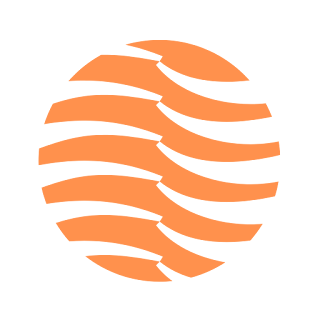
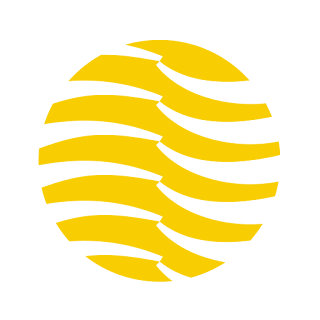
Make the brand mark take its colour from the surface
The mark was orange, which was the one thing on the logged-out site still
fighting the racing yellow. Recoloured — losslessly: the asset is a single
opaque RGB (255,145,77) with alpha doing all the anti-aliasing, so
rewriting RGB and leaving alpha alone preserves all 27,908 opaque pixels
and every soft edge.

Recolouring the file alone would have broken the product, though. The
same lockup renders on two palettes: charcoal on the logged-out site,
where yellow is 11.2:1, and white in onboarding and checkout, where the
same yellow is 1.5:1 and effectively vanishes.

So the mark is now painted through a CSS mask instead of shipped as a
flat <img>. It is a single-colour silhouette, so masking is lossless, and
it buys the thing an <img> cannot: `bg-current` means the mark inherits.
Every surface is right by default, and the alternative — two PNGs plus
remembering which to import at each of six call sites — is the version
that goes wrong in six months.

The marketing header and footer state yellow explicitly, since inheriting
there would give them white.

New `BrandMark` is the one place the asset path lives. It also fixes the
accessible name: the mark is aria-hidden beside a visible wordmark and
labelled only when it stands alone, so a screen reader stops saying
"Fortitudo Fortitudo".

Changed region(s): [[0.0938, 0.125, 0.875, 0.9062]]

diff --git a/src/components/brand-mark.tsx b/src/components/brand-mark.tsx
@@ -1,0 +1,55 @@
+import { cn } from '@/lib/utils';
+
+/**
+ * The Fortitudo mark, rendered as a CSS mask rather than an image.
+ *
+ * The asset is a single-colour silhouette — one opaque RGB with alpha doing
+ * all the anti-aliasing — so painting it through a mask is lossless and buys
+ * one thing a flat `<img>` cannot: the mark takes the colour of whatever it
+ * sits on.
+ *
+ * That matters because the same lockup appears on two palettes. On the
+ * logged-out site it needs to be racing yellow on charcoal (11.2:1). In the
+ * product it sits on white, where that same yellow is 1.5:1 and effectively
+ * disappears. Shipping two PNGs and remembering which to import at each of the
+ * six call sites is the version of this that goes wrong in six months.
+ *
+ * `currentColor` means the mark simply inherits, and every surface is right by
+ * default. Pass a text colour to override.
+ */
+export const BRAND_MARK_SRC = '/brand/fortitudo-mark.png';
+
+export function BrandMark({
+  className,
+  label,
+  style,
+}: {
+  className?: string;
+  /** For call sites that size in px rather than Tailwind height classes. */
+  style?: React.CSSProperties;
+  /**
+   * Only pass this when the mark stands alone. Beside a visible "Fortitudo"
+   * wordmark it must stay unlabelled, or a screen reader says the brand twice.
+   */
+  label?: string;
+}) {
+  return (
+    <span
+      role={label ? 'img' : undefined}
+      aria-label={label}
+      aria-hidden={label ? undefined : true}
+      className={cn('inline-block aspect-square shrink-0 bg-current', className)}
+      style={{
+        ...style,
+        WebkitMaskImage: `url(${BRAND_MARK_SRC})`,
+        maskImage: `url(${BRAND_MARK_SRC})`,
+        WebkitMaskSize: 'contain',
+        maskSize: 'contain',
+        WebkitMaskRepeat: 'no-repeat',
+        maskRepeat: 'no-repeat',
+        WebkitMaskPosition: 'center',
+        maskPosition: 'center',
+      }}
+    />
+  );
+}

diff --git a/src/components/marketing/giga/header.tsx b/src/components/marketing/giga/header.tsx
@@ -16,6 +16,7 @@
 
 import { useState, useRef, useEffect, useCallback } from 'react';
 import Link from 'next/link';
+import { BrandMark } from '@/components/brand-mark';
 import {
   motion,
   AnimatePresence,
@@ -196,14 +197,7 @@ export function SiteHeader() {
                 {/* Empty alt: the link carries its own aria-label and the
                     wordmark beside it is visible text, so naming the mark
                     would announce "Fortitudo" a third time. */}
-                {/* eslint-disable-next-line @next/next/no-img-element */}
-                <img
-                  src="/brand/fortitudo-mark.png"
-                  alt=""
-                  width={320}
-                  height={320}
-                  className="h-5 w-auto"
-                />
+                <BrandMark className="h-5 text-[var(--fx-yellow)]" />
                 <span className="ml-2 text-sm font-medium tracking-tight text-white">Fortitudo</span>
               </Link>
               <nav className="hidden items-center gap-0.5 lg:flex">
@@ -351,14 +345,7 @@ export function SiteHeader() {
                 <Link href="/" className="flex items-center" onClick={closeAll}>
                   {/* Empty alt: the visible wordmark beside it already names
                       the link. */}
-                  {/* eslint-disable-next-line @next/next/no-img-element */}
-                  <img
-                    src="/brand/fortitudo-mark.png"
-                    alt=""
-                    width={320}
-                    height={320}
-                    className="h-5 w-auto"
-                  />
+                  <BrandMark className="h-5 text-[var(--fx-yellow)]" />
                   <span className="ml-2 text-sm font-medium tracking-tight text-white">Fortitudo</span>
                 </Link>
                 <button

diff --git a/src/components/brand-logo.tsx b/src/components/brand-logo.tsx
@@ -1,4 +1,5 @@
 import { cn } from "@/lib/utils";
+import { BrandMark, BRAND_MARK_SRC } from "@/components/brand-mark";
 
 /**
  * The Fortitudo lockup: the mark image plus a plain-text "Fortitudo"
@@ -8,31 +9,26 @@ import { cn } from "@/lib/utils";
  * overrides it (e.g. `text-white` on a dark image panel).
  */
 
-export const FORTITUDO_MARK_SRC =
-  "/brand/fortitudo-mark.png";
+/** Kept as the canonical path for the few call sites that still need a URL. */
+export const FORTITUDO_MARK_SRC = BRAND_MARK_SRC;
 
 interface BrandLogoProps {
   className?: string;
+  /** Accepted for call-site compatibility; the wordmark names the brand, so
+   *  labelling the mark too would make a screen reader say it twice. */
   alt?: string;
   /** Classes for the text wordmark; defaults to a quiet nav-text treatment. */
   textClassName?: string;
 }
 
-export function BrandLogo({
-  className,
-  alt = "Fortitudo",
-  textClassName,
-}: BrandLogoProps) {
+export function BrandLogo({ className, textClassName }: BrandLogoProps) {
   return (
     <span className={cn("relative inline-flex items-center gap-2", className)}>
-      {/* eslint-disable-next-line @next/next/no-img-element */}
-      <img
-        src={FORTITUDO_MARK_SRC}
-        alt={alt}
-        loading="eager"
-        decoding="async"
-        className="block h-full w-auto rounded-md"
-      />
+      {/* Masked rather than an <img> so the mark inherits its surface's
+          colour: racing yellow on the charcoal logged-out site, foreground ink
+          in the product. `alt` is accepted for call-site compatibility but not
+          applied — the wordmark below already names the brand. */}
+      <BrandMark className="h-full" />
       <span
         className={cn(
           "font-medium tracking-tight text-foreground",

diff --git a/src/app/checkout/page.tsx b/src/app/checkout/page.tsx
@@ -2,10 +2,10 @@
 
 import { Suspense } from "react";
 import { useSearchParams } from "next/navigation";
-import Image from "next/image";
 import { Button } from "@/components/ui/button";
 import { Card, CardContent, CardHeader, CardTitle, CardDescription } from "@/components/ui/card";
 import { Shield, CreditCard, ArrowRight } from "lucide-react";
+import { BrandMark } from "@/components/brand-mark";
 
 export default function CheckoutPage() {
   return (
@@ -60,12 +60,12 @@ function CheckoutContent() {
     <div className="min-h-screen bg-charcoal-dark flex items-center justify-center p-4">
       <Card className="w-full max-w-md">
         <CardHeader className="text-center">
-          <Image
-            src="/brand/fortitudo-mark.png"
-            alt="Fortitudo"
-            width={48}
-            height={48}
-            className="rounded-lg mx-auto mb-4"
+          {/* Masked: this card is on the product's light surface, where the
+              logged-out site's racing yellow would sit at 1.5:1. */}
+          <BrandMark
+            label="Fortitudo"
+            className="mx-auto mb-4 block"
+            style={{ height: 48, width: 48 }}
           />
           <CardTitle className="text-2xl">Complete Your Payment</CardTitle>
           <CardDescription>

diff --git a/src/components/marketing/giga/footer.tsx b/src/components/marketing/giga/footer.tsx
@@ -26,6 +26,7 @@
  */
 
 import Link from 'next/link';
+import { BrandMark } from '@/components/brand-mark';
 
 const MONO = { fontFamily: 'var(--font-mono)' } as const;
 
@@ -229,14 +230,7 @@ export function SiteFooter() {
               <span className="flex items-center">
                 {/* Empty alt: the wordmark beside it already says "Fortitudo",
                     and naming the mark too makes a screen reader say it twice. */}
-                {/* eslint-disable-next-line @next/next/no-img-element */}
-                <img
-                  src="/brand/fortitudo-mark.png"
-                  alt=""
-                  width={320}
-                  height={320}
-                  className="h-5 w-auto"
-                />
+                <BrandMark className="h-5 text-[var(--fx-yellow)]" />
                 <span className="ml-2 text-sm font-medium tracking-tight text-[var(--fx-white)]">
                   Fortitudo
                 </span>

diff --git a/src/components/ui/logo.tsx b/src/components/ui/logo.tsx
@@ -1,8 +1,5 @@
-import Image from "next/image";
 import { cn } from "@/lib/utils";
-
-const LOGO_SRC =
-  "/brand/fortitudo-mark.png";
+import { BrandMark } from "@/components/brand-mark";
 
 interface LogoProps {
   size?: number;
@@ -14,13 +11,9 @@ interface LogoProps {
 export function Logo({ size = 32, className, withWordmark = true }: LogoProps) {
   return (
     <span className={cn("inline-flex shrink-0 items-center gap-2", className)}>
-      <Image
-        src={LOGO_SRC}
-        alt="Fortitudo"
-        height={size}
-        width={size}
-        className="shrink-0 rounded-md"
-      />
+      {/* Masked, so the mark is yellow on charcoal and ink on paper without
+          the call site having to know which surface it is on. */}
+      <BrandMark className="shrink-0" style={{ height: size, width: size }} />
       {withWordmark && (
         <span
           className="font-title text-foreground"
